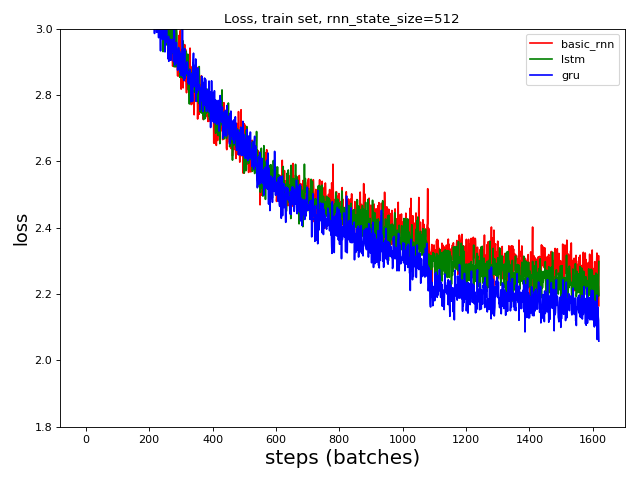
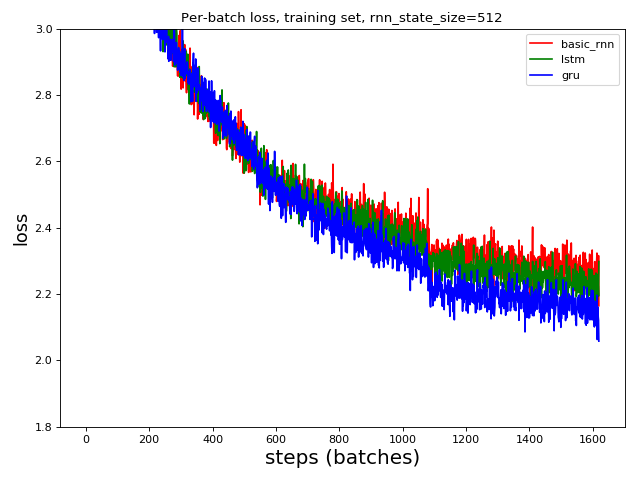
update to plots

Changed region(s): [[0.2812, 0.0312, 0.7812, 0.0625]]

diff --git a/README.md b/README.md
@@ -144,16 +144,16 @@ Qualitative results are presented on the Validation and Test sets. Results obtai
 </table>
 
 
-**Per-batch loss, training set** 
+<!-- **Per-batch loss, training set** -->
 <div>
-  <img align="center" src="/report/plot_train_512.png" width=275>
-  <img align="center" src="/report/plot_train_1024.png" width=275>
+  <img align="center" src="/report/plot_train_512.png" width=400>
+  <img align="center" src="/report/plot_train_1024.png" width=400>
 </div>
 
-**Average loss over batches, validation set** 
+<!-- **Average loss over batches, validation set** -->
 <div>
-  <img align="center" src="/report/plot_val_512.png" width=275>
-  <img align="center" src="/report/plot_val_1024.png" width=275>
+  <img align="center" src="/report/plot_val_512.png" width=400>
+  <img align="center" src="/report/plot_val_1024.png" width=400>
 </div>
 
 
